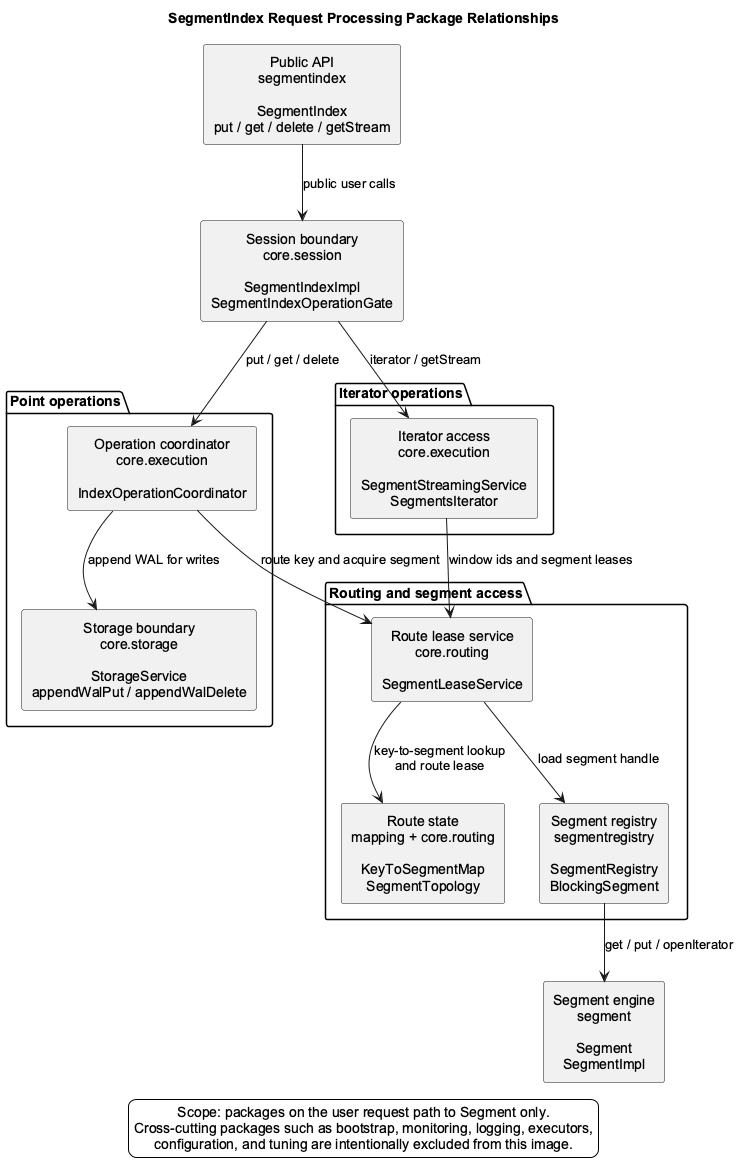
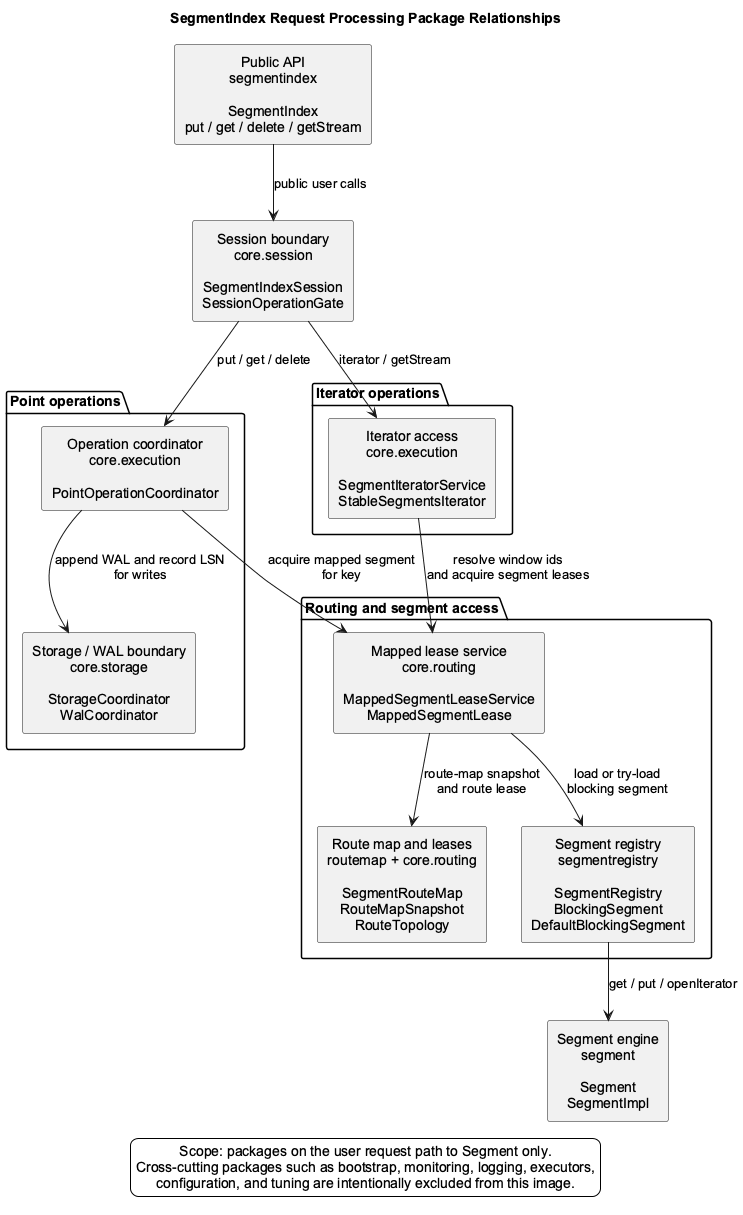
Merge pull request #293 from jajir/codex/issue-291-runtime-reload
Restore runtime-state segment reload

Pull request: Restore runtime-state segment reload
## Summary
- restore runtime state polling to reload the segment through the registry
- remove the runtime-state cached segment unit tests that covered the previous behavior
- refresh the configuration flow diagram labels and generated PNG

## Tests
- mvn -q -f engine/pom.xml -Dtest=DefaultBlockingSegmentTest test
- mvn clean verify

Changed region(s): [[0.0, 0.0, 0.9959, 0.9796]]

diff --git a/engine/src/test/java/org/hestiastore/index/segmentregistry/DefaultBlockingSegmentTest.java b/engine/src/test/java/org/hestiastore/index/segmentregistry/DefaultBlockingSegmentTest.java
@@ -13,7 +13,6 @@ import org.hestiastore.index.IndexException;
 import org.hestiastore.index.segment.Segment;
 import org.hestiastore.index.segment.SegmentId;
 import org.hestiastore.index.segment.SegmentRuntimeLimits;
-import org.hestiastore.index.segment.SegmentState;
 import org.junit.jupiter.api.BeforeEach;
 import org.junit.jupiter.api.Test;
 import org.junit.jupiter.api.extension.ExtendWith;
@@ -93,37 +92,6 @@ class DefaultBlockingSegmentTest {
         handle.getRuntime().updateRuntimeLimits(runtimeLimits);
 
         verify(segment).applyRuntimeLimits(runtimeLimits);
-    }
-
-    @Test
-    void runtimeStateUsesCurrentSegmentWithoutReloading() {
-        when(segment.getState()).thenReturn(SegmentState.MAINTENANCE_RUNNING);
-        final BlockingSegment<Integer, String> segmentHandle =
-                new DefaultBlockingSegment<>(SEGMENT_ID, () -> {
-                    throw new AssertionError("Segment should not reload");
-                }, new BusyRetryPolicy(1, 25), segment);
-
-        assertEquals(SegmentState.MAINTENANCE_RUNNING,
-                segmentHandle.getRuntime().getState());
-    }
-
-    @Test
-    void runtimeStateReloadsAfterCurrentSegmentCloses() {
-        final Segment<Integer, String> reloadedSegment = mockSegment();
-        final BlockingSegment<Integer, String> reloadedHandle = mockBlockingSegment();
-        when(segment.getState()).thenReturn(SegmentState.CLOSED);
-        when(segmentRegistry.loadSegment(SEGMENT_ID)).thenReturn(reloadedHandle);
-        when(reloadedHandle.getSegment()).thenReturn(reloadedSegment);
-        when(reloadedSegment.getState()).thenReturn(SegmentState.READY);
-        final BlockingSegment<Integer, String> segmentHandle =
-                new DefaultBlockingSegment<>(SEGMENT_ID,
-                        () -> segmentRegistry.loadSegment(SEGMENT_ID)
-                                .getSegment(),
-                        new BusyRetryPolicy(1, 25), segment);
-
-        assertEquals(SegmentState.READY,
-                segmentHandle.getRuntime().getState());
-        verify(segmentRegistry).loadSegment(SEGMENT_ID);
     }
 
     @SuppressWarnings("unchecked")

diff --git a/engine/src/main/java/org/hestiastore/index/segmentregistry/DefaultBlockingSegment.java b/engine/src/main/java/org/hestiastore/index/segmentregistry/DefaultBlockingSegment.java
@@ -140,17 +140,6 @@ final class DefaultBlockingSegment<K, V> implements BlockingSegment<K, V> {
         return loaded;
     }
 
-    private SegmentState loadCurrentState() {
-        final Segment<K, V> currentSegment = segment;
-        if (currentSegment != null) {
-            final SegmentState state = currentSegment.getState();
-            if (state != SegmentState.CLOSED) {
-                return state;
-            }
-        }
-        return loadSegment().getState();
-    }
-
     private <T> T runBlocking(final String operation,
             final Function<Segment<K, V>, OperationResult<T>> action) {
         final long startNanos = retryPolicy.startNanos();
@@ -195,7 +184,7 @@ final class DefaultBlockingSegment<K, V> implements BlockingSegment<K, V> {
 
         @Override
         public SegmentState getState() {
-            return loadCurrentState();
+            return loadSegment().getState();
         }
 
         @Override